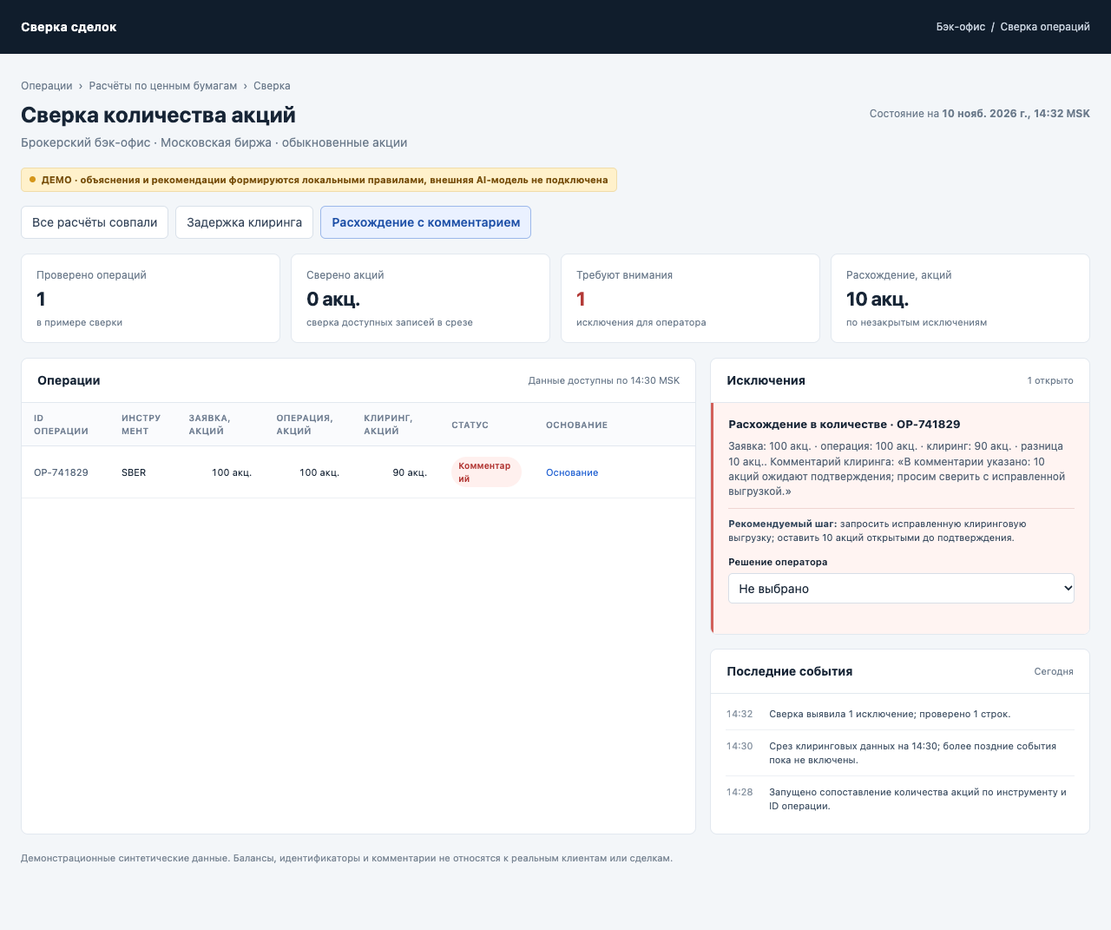
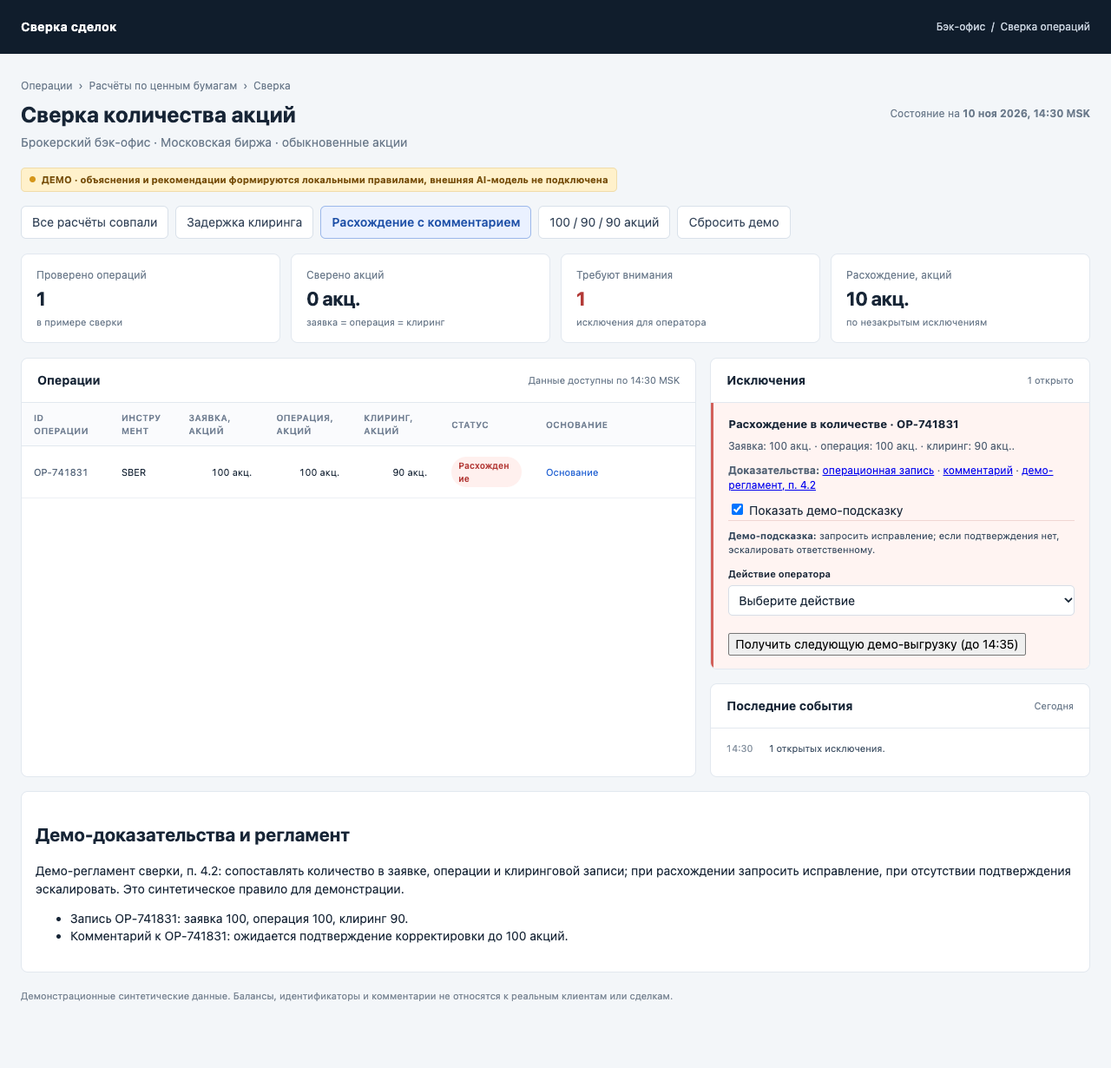
update demo

diff --git a/index.html b/index.html
@@ -13,52 +13,46 @@
 <header class="top"><div class="brand">Сверка сделок</div><div class="right">Бэк-офис&nbsp; / &nbsp;Сверка операций</div></header>
 <main class="shell">
 <div class="crumb">Операции&nbsp; › &nbsp;Расчёты по ценным бумагам&nbsp; › &nbsp;Сверка</div>
-<div class="heading"><div><h1>Сверка количества акций</h1><p>Брокерский бэк-офис · Московская биржа · обыкновенные акции</p></div><div class="asof">Состояние на <strong id="asof">10 ноя 2026, 14:32 MSK</strong></div></div>
+<div class="heading"><div><h1>Сверка количества акций</h1><p>Брокерский бэк-офис · Московская биржа · обыкновенные акции</p></div><div class="asof">Состояние на <strong id="asof">10 ноя 2026, 14:30 MSK</strong></div></div>
 <div class="sim">ДЕМО · объяснения и рекомендации формируются локальными правилами, внешняя AI-модель не подключена</div>
-<nav class="scenarios" aria-label="Сценарии сверки"><button type="button" data-scenario="matched" aria-pressed="true">Все расчёты совпали</button><button type="button" data-scenario="delay" aria-pressed="false">Задержка клиринга</button><button type="button" data-scenario="comment" aria-pressed="false">Расхождение с комментарием</button></nav>
+<nav class="scenarios" aria-label="Сценарии сверки"><button type="button" data-scenario="matched" aria-pressed="true">Все расчёты совпали</button><button type="button" data-scenario="delay" aria-pressed="false">Задержка клиринга</button><button type="button" data-scenario="comment" aria-pressed="false">Расхождение с комментарием</button><button type="button" data-scenario="triple" aria-pressed="false">100 / 90 / 90 акций</button><button type="button" id="resetDemo">Сбросить демо</button></nav>
 <section class="summary" aria-label="Итоги сверки"><article class="metric"><div class="label">Проверено операций</div><strong id="count">2</strong><div class="hint">в примере сверки</div></article><article class="metric"><div class="label">Сверено акций</div><strong id="matched">100 акц.</strong><div class="hint" id="matchHint">100 акций сверено</div></article><article class="metric alert"><div class="label">Требуют внимания</div><strong id="attention">0</strong><div class="hint">исключения для оператора</div></article><article class="metric"><div class="label">Расхождение, акций</div><strong id="difference">0 акц.</strong><div class="hint">по незакрытым исключениям</div></article></section>
 <div class="columns"><section class="panel"><div class="panel-head"><h2>Операции</h2><span class="sub" id="tableCaption">Сверено по количеству акций</span></div><div class="table-wrap"><table><thead><tr><th scope="col">ID операции</th><th scope="col">Инструмент</th><th scope="col">Заявка, акций</th><th scope="col">Операция, акций</th><th scope="col">Клиринг, акций</th><th scope="col">Статус</th><th scope="col">Основание</th></tr></thead><tbody id="rows"></tbody></table></div></section>
 <aside class="side"><section class="panel"><div class="panel-head"><h2>Исключения</h2><span class="sub" id="exceptionCount">Нет открытых</span></div><div id="exceptions"></div></section><section class="panel"><div class="panel-head"><h2>Последние события</h2><span class="sub">Сегодня</span></div><div class="activity" id="activity"></div></section></aside></div>
+<section class="panel" style="margin-top:16px;padding:16px"><h2>Демо-доказательства и регламент</h2><p id="regulation">Демо-регламент сверки, п. 4.2: сопоставлять количество в заявке, операции и клиринговой записи; при расхождении запросить исправление, при отсутствии подтверждения эскалировать. Это синтетическое правило для демонстрации.</p><ul><li data-evidence="matched" id="record-741829" hidden>Запись OP-741829: заявка 40, операция 40, клиринг 40.</li><li data-evidence="matched" id="record-741830" hidden>Запись OP-741830: заявка 60, операция 60, клиринг 60.</li><li data-evidence="delay" id="record-delay" hidden>Запись OP-741830: заявка 60, операция 60; клиринговая запись еще не опубликована.</li><li data-evidence="delay" id="record-delay-clearing" hidden>Клиринговая запись OP-741830-C: 60 акций, опубликована в 14:35.</li><li data-evidence="comment" id="record-741831" hidden>Запись OP-741831: заявка 100, операция 100, клиринг 90.</li><li data-evidence="comment" id="record-comment" hidden>Комментарий к OP-741831: ожидается подтверждение корректировки до 100 акций.</li><li data-evidence="triple" id="record-triple" hidden>Синтетическая запись: заявка 100, операция 90, клиринг 90.</li></ul><ul id="correctionEvidence" hidden><li id="record-correction">Корректирующая запись OP-741831-C: клиринг 100 акций, опубликована в 14:35.</li></ul></section>
 <p class="footer">Демонстрационные синтетические данные. Балансы, идентификаторы и комментарии не относятся к реальным клиентам или сделкам.</p>
 </main>
 <script>
-const asOf = new Date('2026-11-10T14:32:00+03:00');
-const availableThrough = new Date('2026-11-10T14:30:00+03:00');
-document.querySelector('#asof').textContent = new Intl.DateTimeFormat('ru-RU',{dateStyle:'medium',timeStyle:'short',timeZone:'Europe/Moscow'}).format(asOf)+' MSK';
-const base = [
- {id:'OP-741829',instrument:'SBER',orderQty:40,operationQty:40,clearingQty:40,availableAt:'14:29',comment:'',time:'14:29'},
- {id:'OP-741830',instrument:'SBER',orderQty:60,operationQty:60,clearingQty:60,availableAt:'14:30',comment:'',time:'14:30'}
-];
-const scenarios = {
- matched: base,
- delay: [base[0],{...base[1],availableAt:'14:35'}],
- comment: [{...base[0],orderQty:100,operationQty:100,clearingQty:90,comment:'В комментарии указано: 10 акций ожидают подтверждения; просим сверить с исправленной выгрузкой.'}]
-};
-const quantity = n => n==null?'—':new Intl.NumberFormat('ru-RU').format(n)+' акц.';
-const status = {match:['Совпало','b-match'],delay:['Ожидание','b-delay'],comment:['Комментарий','b-comment']};
-const decisionKey = name => 'northstar-demo-decision-'+name;
+const storageKey='northstar-demo-state';
+let persisted={};try{persisted=JSON.parse(localStorage.getItem(storageKey)||'{}')||{}}catch{}
+const cutoffs={...persisted.cutoffs};let history=Array.isArray(persisted.history)?persisted.history:[];let currentScenario=persisted.scenario||'matched';
+const baseline='14:30', quantity=n=>n==null?'—':new Intl.NumberFormat('ru-RU').format(n)+' акц.', timeValue=t=>Number(t.replace(':',''));
+const scenarios={matched:[{id:'OP-741829',instrument:'SBER',orderQty:40,operationQty:40,clearingQty:40,availableAt:'14:29',comment:'',ref:'#record-741829'},{id:'OP-741830',instrument:'SBER',orderQty:60,operationQty:60,clearingQty:60,availableAt:'14:30',comment:'',ref:'#record-741830'}],delay:[{id:'OP-741830',instrument:'SBER',orderQty:60,operationQty:60,clearingQty:60,availableAt:'14:35',comment:'',ref:'#record-delay'}],comment:[{id:'OP-741831',instrument:'SBER',orderQty:100,operationQty:100,clearingQty:90,availableAt:'14:30',comment:'Ожидается подтверждение корректировки.',ref:'#record-741831'}],triple:[{id:'OP-DEMO-100',instrument:'SBER',orderQty:100,operationQty:90,clearingQty:90,availableAt:'14:30',comment:'',ref:'#record-triple'}]};
+const labels={wait:'Ждать обновления',request:'Запросить исправление',escalate:'Эскалировать ответственному',export:'Получить следующую демо-выгрузку'};
+const currentCutoff=name=>cutoffs[name]||baseline, persist=()=>{try{localStorage.setItem(storageKey,JSON.stringify({cutoffs,history,scenario:currentScenario}))}catch{}};
+function snapshot(name,cutoff){return scenarios[name].map(r=>{const advanced=cutoff>baseline&&name==='comment',available=timeValue(r.availableAt)<=timeValue(cutoff),clear=advanced?100:(available?r.clearingQty:null),state=clear==null?'delay':r.orderQty===r.operationQty&&r.operationQty===clear?'match':'mismatch';return {order:r.orderQty,operation:r.operationQty,clearing:clear,status:state}})}
+function statusText(rows){return rows.map(r=>`${r.order}/${r.operation}/${r.clearing??'—'} (${r.status==='match'?'совпало':r.status==='delay'?'ожидание':'расхождение'})`).join('; ')}
 function render(name){
- const rows=scenarios[name].map(r=>{const available=new Date(`2026-11-10T${r.availableAt}:00+03:00`)<=availableThrough;const clearingQty=available?r.clearingQty:null;const diff=clearingQty==null?null:r.operationQty-clearingQty;const state=!available?'delay':diff===0?'match':'comment';return {...r,visibleClearingQty:clearingQty,diff,state}});
- const matchedQty=rows.reduce((n,r)=>n+(r.state==='match'?r.operationQty:0),0);
- const diffQty=rows.reduce((n,r)=>n+(r.diff==null?0:Math.abs(r.diff)),0);
- const exceptions=rows.filter(r=>r.state!=='match');
+ const cutoff=currentCutoff(name),rows=snapshot(name,cutoff),exceptions=rows.map((r,i)=>({...scenarios[name][i],...r,diff:r.clearing==null?null:Math.max(r.order,r.operation,r.clearing)-Math.min(r.order,r.operation,r.clearing)})).filter(r=>r.status!=='match');
+ const matchedQty=rows.reduce((n,r)=>n+(r.status==='match'?r.operation:0),0),diffQty=exceptions.reduce((n,r)=>n+(r.diff||0),0);
+ document.querySelector('#asof').textContent=`10 ноя 2026, ${cutoff} MSK`;
  document.querySelectorAll('[data-scenario]').forEach(b=>b.setAttribute('aria-pressed',String(b.dataset.scenario===name)));
- document.querySelector('#count').textContent=rows.length;
- document.querySelector('#matched').textContent=quantity(matchedQty);
- document.querySelector('#attention').textContent=exceptions.length;
- document.querySelector('#difference').textContent=quantity(diffQty);
- document.querySelector('#matchHint').textContent='сверка доступных записей в срезе';
- document.querySelector('#exceptionCount').textContent=exceptions.length?exceptions.length+' открыто':'Нет открытых';
- document.querySelector('#tableCaption').textContent=`Данные доступны по ${new Intl.DateTimeFormat('ru-RU',{hour:'2-digit',minute:'2-digit',timeZone:'Europe/Moscow'}).format(availableThrough)} MSK`;
- document.querySelector('#rows').innerHTML=rows.map((r,i)=>`<tr><td class="id">${r.id}</td><td>${r.instrument}</td><td class="amount">${quantity(r.orderQty)}</td><td class="amount">${quantity(r.operationQty)}</td><td class="amount">${quantity(r.visibleClearingQty)}</td><td><span class="badge ${status[r.state][1]}">${status[r.state][0]}</span></td><td><button class="row-button" type="button" aria-expanded="false" aria-controls="detail-${i}">Основание</button></td></tr><tr hidden id="detail-${i}"><td colspan="7"><div class="detail"><b>Основание:</b> ${r.state==='match'?'количество акций совпало':r.state==='delay'?`временная метка доступности клиринговой записи ${r.availableAt} позже среза данных на 14:30 MSK`:`заявка ${r.orderQty}, операция ${r.operationQty}, клиринг ${r.visibleClearingQty}; комментарий: ${r.comment}`} <b>Время события:</b> ${r.time} MSK. <b>Следующий шаг:</b> ${r.state==='delay'?'дождаться публикации после обновления среза и повторить сверку':r.state==='comment'?'запросить исправленную выгрузку и подтвердить статус оставшихся 10 акций':'закрыть сверку'}.</div></td></tr>`).join('');
- document.querySelectorAll('.row-button').forEach(btn=>btn.addEventListener('click',()=>{const row=document.getElementById(btn.getAttribute('aria-controls'));const open=btn.getAttribute('aria-expanded')!=='true';btn.setAttribute('aria-expanded',String(open));btn.textContent=open?'Скрыть':'Основание';row.hidden=!open}));
- const ex=document.querySelector('#exceptions');
- if(!exceptions.length) ex.innerHTML='<div class="empty">Все строки в доступном срезе сверены. Открытых исключений нет.</div>';
- else {const r=exceptions[0],isDelay=r.state==='delay',key=decisionKey(name),saved=localStorage.getItem(key)||'';ex.innerHTML=`<article class="exception ${isDelay?'':'red'}"><h3>${isDelay?'Ожидается клиринговая запись':'Расхождение в количестве'} · ${r.id}</h3><p>${isDelay?`Ожидается ${quantity(r.operationQty)}; запись существует, но пока вне среза на 14:30 MSK. Следующее обновление данных ожидается в 14:35.`:`Заявка: ${quantity(r.orderQty)} · операция: ${quantity(r.operationQty)} · клиринг: ${quantity(r.visibleClearingQty)} · разница ${quantity(r.diff)}. Комментарий клиринга: «${r.comment}»`}</p><div class="next"><b>Рекомендуемый шаг:</b> ${isDelay?'оставить исключение открытым и сверить после поступления данных.':'запросить исправленную клиринговую выгрузку; оставить 10 акций открытыми до подтверждения.'}</div><label for="decision" class="decision-label">Решение оператора</label><select id="decision"><option value="">Не выбрано</option><option value="hold">Оставить открытым</option><option value="accept">Принять объяснение</option></select><span class="saved" aria-live="polite">${saved?'Решение сохранено':''}</span></article>`;const select=document.querySelector('#decision');select.value=saved;select.addEventListener('change',()=>{if(select.value)localStorage.setItem(key,select.value);else localStorage.removeItem(key);document.querySelector('.saved').textContent=select.value?'Решение сохранено':'Решение сброшено'})}
- document.querySelector('#activity').innerHTML=`<div class="event"><time>14:32</time><span>${exceptions.length?`Сверка выявила ${exceptions.length} исключение; проверено ${rows.length} строк.`:`Совпали количества: 40 + 60 = ${matchedQty} акций.`}</span></div><div class="event"><time>14:30</time><span>Срез клиринговых данных на 14:30; более поздние события пока не включены.</span></div><div class="event"><time>14:28</time><span>Запущено сопоставление количества акций по инструменту и ID операции.</span></div>`;
+ document.querySelector('#count').textContent=rows.length;document.querySelector('#matched').textContent=quantity(matchedQty);document.querySelector('#attention').textContent=exceptions.length;document.querySelector('#difference').textContent=quantity(diffQty);document.querySelector('#matchHint').textContent='заявка = операция = клиринг';document.querySelector('#exceptionCount').textContent=exceptions.length?exceptions.length+' открыто':'Нет открытых';document.querySelector('#tableCaption').textContent=`Данные доступны по ${cutoff} MSK`;
+ document.querySelector('#correctionEvidence').hidden=name!=='comment'||cutoff===baseline;document.querySelectorAll('[data-evidence]').forEach(item=>item.hidden=item.dataset.evidence!==name||(item.id==='record-delay-clearing'&&cutoff===baseline));
+ document.querySelector('#rows').innerHTML=rows.map((r,i)=>{const src=scenarios[name][i],link=cutoff>baseline&&name==='comment'?'#record-correction':src.ref;return `<tr><td class="id">${src.id}</td><td>${src.instrument}</td><td class="amount">${quantity(r.order)}</td><td class="amount">${quantity(r.operation)}</td><td class="amount">${quantity(r.clearing)}</td><td><span class="badge ${r.status==='match'?'b-match':r.status==='delay'?'b-delay':'b-comment'}">${r.status==='match'?'Совпало':r.status==='delay'?'Ожидание':'Расхождение'}</span></td><td><button class="row-button" type="button" aria-expanded="false" aria-controls="detail-${i}">Основание</button></td></tr><tr hidden id="detail-${i}"><td colspan="7"><div class="detail"><b>Сравнение:</b> заявка ${quantity(r.order)} · операция ${quantity(r.operation)} · клиринг ${quantity(r.clearing)}. <b>Запись:</b> <a href="${link}">открыть источник</a>${name==='comment'?' · <a href="#record-comment">открыть комментарий</a>':''}. <b>Правило:</b> <a href="#regulation">демо-регламент, п. 4.2</a>. <b>Комментарий:</b> ${src.comment||'нет'}.</div></td></tr>`}).join('');
+ document.querySelectorAll('.row-button').forEach(btn=>btn.addEventListener('click',()=>{const row=document.getElementById(btn.getAttribute('aria-controls')),open=btn.getAttribute('aria-expanded')!=='true';btn.setAttribute('aria-expanded',String(open));btn.textContent=open?'Скрыть':'Основание';row.hidden=!open}));
+ const ex=document.querySelector('#exceptions'),key='northstar-demo-decision-'+name;let saved={};try{saved=JSON.parse(localStorage.getItem(key)||'{}')||{}}catch{}
+ if(!exceptions.length)ex.innerHTML='<div class="empty">Все три количества совпали в доступном срезе.</div>';
+ else{const r=exceptions[0],src=scenarios[name].find(item=>item.id===r.id),sourceLink=name==='delay'&&cutoff>baseline?'#record-delay-clearing':src.ref;ex.innerHTML=`<article class="exception ${r.status==='delay'?'':'red'}"><h3>${r.status==='delay'?'Ожидается клиринговая запись':'Расхождение в количестве'} · ${r.id}</h3><p>Заявка: ${quantity(r.order)} · операция: ${quantity(r.operation)} · клиринг: ${quantity(r.clearing)}.</p><p><b>Доказательства:</b> <a href="${sourceLink}">${name==='comment'?'операционная запись':'запись'}</a>${name==='comment'?` · <a href="#record-comment">комментарий</a>`:''} · <a href="#regulation">демо-регламент, п. 4.2</a></p><label><input id="suggestion" type="checkbox" ${saved.suggestion===false?'':'checked'}> Показать демо-подсказку</label><div id="suggestionText" class="next"><b>Демо-подсказка:</b> ${r.status==='delay'?'дождаться публикации записи, затем повторить сверку.':'запросить исправление; если подтверждения нет, эскалировать ответственному.'}</div><label for="decision" class="decision-label">Действие оператора</label><select id="decision"><option value="">Выберите действие</option><option value="wait">Ждать обновления</option><option value="request">Запросить исправление</option><option value="escalate">Эскалировать ответственному</option></select><span class="saved" aria-live="polite">${saved.action?'Действие сохранено':''}</span><button id="export" type="button" ${cutoff>baseline||name==='triple'?'disabled':''}>Получить следующую демо-выгрузку (до 14:35)</button></article>`;
+ const select=document.querySelector('#decision');select.value=saved.action||'';select.addEventListener('change',()=>{const prev=snapshot(name,cutoff);saved.action=select.value;try{localStorage.setItem(key,JSON.stringify(saved))}catch{}history.push({scenario:name,cutoff,before:prev,after:prev,action:select.value});persist();document.querySelector('.saved').textContent='Действие сохранено';render(name)});
+ document.querySelector('#suggestion').addEventListener('change',e=>{saved.suggestion=e.target.checked;try{localStorage.setItem(key,JSON.stringify(saved))}catch{}document.querySelector('#suggestionText').hidden=!e.target.checked});document.querySelector('#suggestionText').hidden=saved.suggestion===false;
+ document.querySelector('#export').addEventListener('click',()=>{const before=snapshot(name,cutoff);cutoffs[name]='14:35';const after=snapshot(name,'14:35');history.push({scenario:name,cutoff:'14:35',before,after,action:'export'});persist();render(name)});
+ }
+ document.querySelector('#activity').innerHTML=`<div class="event"><time>${cutoff}</time><span>${exceptions.length?`${exceptions.length} открытых исключения.`:`Совпали все количества: ${matchedQty} акций.`}</span></div>${history.slice(-5).reverse().map(e=>`<div class="event"><time>${e.cutoff}</time><span>${labels[e.action]||e.action} · ${e.scenario}: до — ${statusText(e.before)}; после — ${statusText(e.after)}.</span></div>`).join('')}`;
 }
-document.querySelectorAll('[data-scenario]').forEach(b=>b.addEventListener('click',()=>render(b.dataset.scenario)));
-render('matched');
+document.querySelectorAll('[data-scenario]').forEach(b=>b.addEventListener('click',()=>{currentScenario=b.dataset.scenario;persist();render(currentScenario)}));
+document.querySelector('#resetDemo').addEventListener('click',()=>{try{localStorage.removeItem(storageKey);for(const n of Object.keys(scenarios))localStorage.removeItem('northstar-demo-decision-'+n)}catch{}for(const n of Object.keys(cutoffs))delete cutoffs[n];history=[];currentScenario='matched';persist();render(currentScenario)});
+render(currentScenario);
 </script>
 </body>
 </html>

diff --git a/README.md b/README.md
@@ -4,14 +4,23 @@
 
 ## Попробовать прототип
 
-**Разбор сделок** показывает работу сотрудника на трёх синтетических случаях. Выберите случай, сравните объёмы исполнения, операции и клиринга, откройте основания сверки и зафиксируйте следующее действие. В сценарии с расхождением на 10 акций можно увидеть, какую дополнительную проверку подсказывает агент. Сверка выполняется в браузере, текст подсказок подготовлен для демонстрации. Выбранное решение сохраняется локально в браузере.
+**Сверка сделок** показывает работу сотрудника на четырёх синтетических случаях. Сверка выполняется в браузере. Подсказки подготовлены для демонстрации, решения и история сохраняются в этом браузере.
 
 - [Исходник демо](index.html) · [Архитектура пилота](ARCHITECTURE.md)
-- После включения GitHub Pages демо будет доступно по адресу [goodgame563.github.io/docs-for-ai](https://goodgame563.github.io/docs-for-ai/).
+- [Опубликованная страница](https://goodgame563.github.io/docs-for-ai/) обновляется после публикации изменений в `main`.
 
 ![Сверка сделки с расхождением в 10 акций](demo-preview.png)
 
-**Порядок показа.** Начните с расхождения 100 и 90 акций. Откройте основание, чтобы показать, почему комментарий о корректировке ещё не меняет результат сверки. Зафиксируйте решение сотрудника. Затем переключитесь на задержку клиринговой записи и покажите, что система отличает отсутствующие на момент разбора данные от расхождения в количестве.
+**Порядок показа.** Начните со случая 100 / 100 / 90. Отключите подсказку, чтобы показать результат обычной сверки. Включите её, откройте клиринговую запись, комментарий о корректировке и пункт демонстрационного регламента. Зафиксируйте действие сотрудника и загрузите следующую демо-выгрузку. Покажите пересчитанный статус и историю до и после обновления.
+
+| Случай | Что проверяет |
+| --- | --- |
+| 40 + 60 акций | Частичные исполнения дают 100 акций, все источники сходятся. |
+| Задержка клиринга | Строка вне текущего среза. После следующей выгрузки её можно использовать для сверки. |
+| 100 / 100 / 90 | Комментарий о корректировке сам по себе не меняет количество. Подтверждённая выгрузка на 100 закрывает расхождение. |
+| 100 / 90 / 90 | Совпадение операции и клиринга не скрывает расхождение с заявкой. |
+
+Переключатель подсказки показывает разницу в интерфейсе. Фактическую экономию времени проверяем отдельно в пилоте по протоколу в разделе 6.
 
 Для локального запуска из корня репозитория:
 

diff --git a/ARCHITECTURE.md b/ARCHITECTURE.md
@@ -6,7 +6,7 @@
 
 | Контур | Реализация | Результат |
 | --- | --- | --- |
-| Публичное демо | HTML, CSS и JavaScript на GitHub Pages | Сверка в браузере, три синтетических случая, заготовленные подсказки |
+| Публичное демо | HTML, CSS и JavaScript на GitHub Pages | Сверка в браузере, четыре синтетических случая, заготовленные подсказки, повторная сверка и локальная история |
 | Закрытый пилот | Один Python-сервис на FastAPI, PostgreSQL, одна модель с проверяемым JSON-выходом | Импорт обезличенных данных, история сверки, ответы модели и решения сотрудников |
 
 ## Поток данных
@@ -28,7 +28,7 @@
 
 | Проверка | Условие приёмки |
 | --- | --- |
-| Публичный показ | Все три сценария открываются по ссылке GitHub Pages. Количество и статусы воспроизводимы. Заготовленные подсказки явно обозначены. |
+| Публичный показ | Четыре сценария открываются на GitHub Pages. Сверка проверяет все три источника, ссылки ведут к демо-записям, после следующей выгрузки статус пересчитывается, а решения и предыдущий срез остаются в истории. |
 | Реальные источники | Независимый эксперт подтвердил связи на серии случаев. Измерены покрытие и доля ошибок сопоставления. Условия допуска к пилоту заранее согласованы с брокером. |
 | Ссылки и сбои | Ссылка открывает конкретную переданную запись или пункт регламента. При недоступности модели сверку можно завершить вручную. |
 | Польза | На отдельной выборке сравниваем ту же карточку с подсказкой и без. Согласуем границу для ошибок и размер выборки до основного эксперимента. Целевое сокращение медианного времени составляет 20%. |
